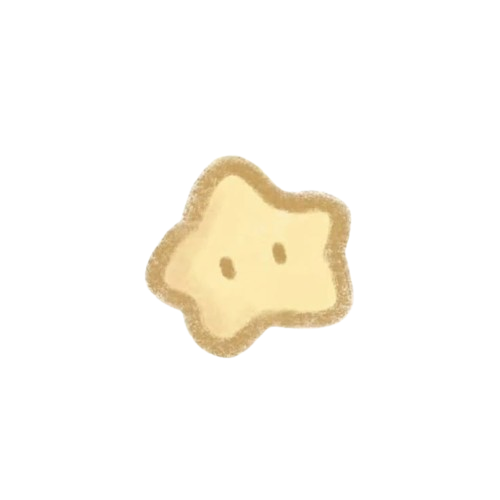
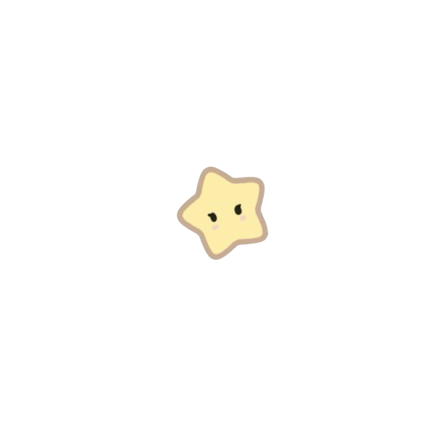
jt - new cursor

Changed region(s): [[0.2708, 0.3009, 0.7222, 0.7222], [0.4815, 0.4815, 0.5116, 0.5116]]

diff --git a/components/custom-cursor.tsx b/components/custom-cursor.tsx
@@ -6,7 +6,7 @@ import { useEffect, useRef, useState } from 'react'
 // best. CURSOR_SIZE is the on-screen display size in px — the source file
 // can be higher-res than that for retina screens, it'll just get scaled down.
 const CURSOR_SRC = '/images/cursor.png'
-const CURSOR_SIZE = 64
+const CURSOR_SIZE = 121
 
 export function CustomCursor() {
   const posRef = useRef<HTMLDivElement>(null)
